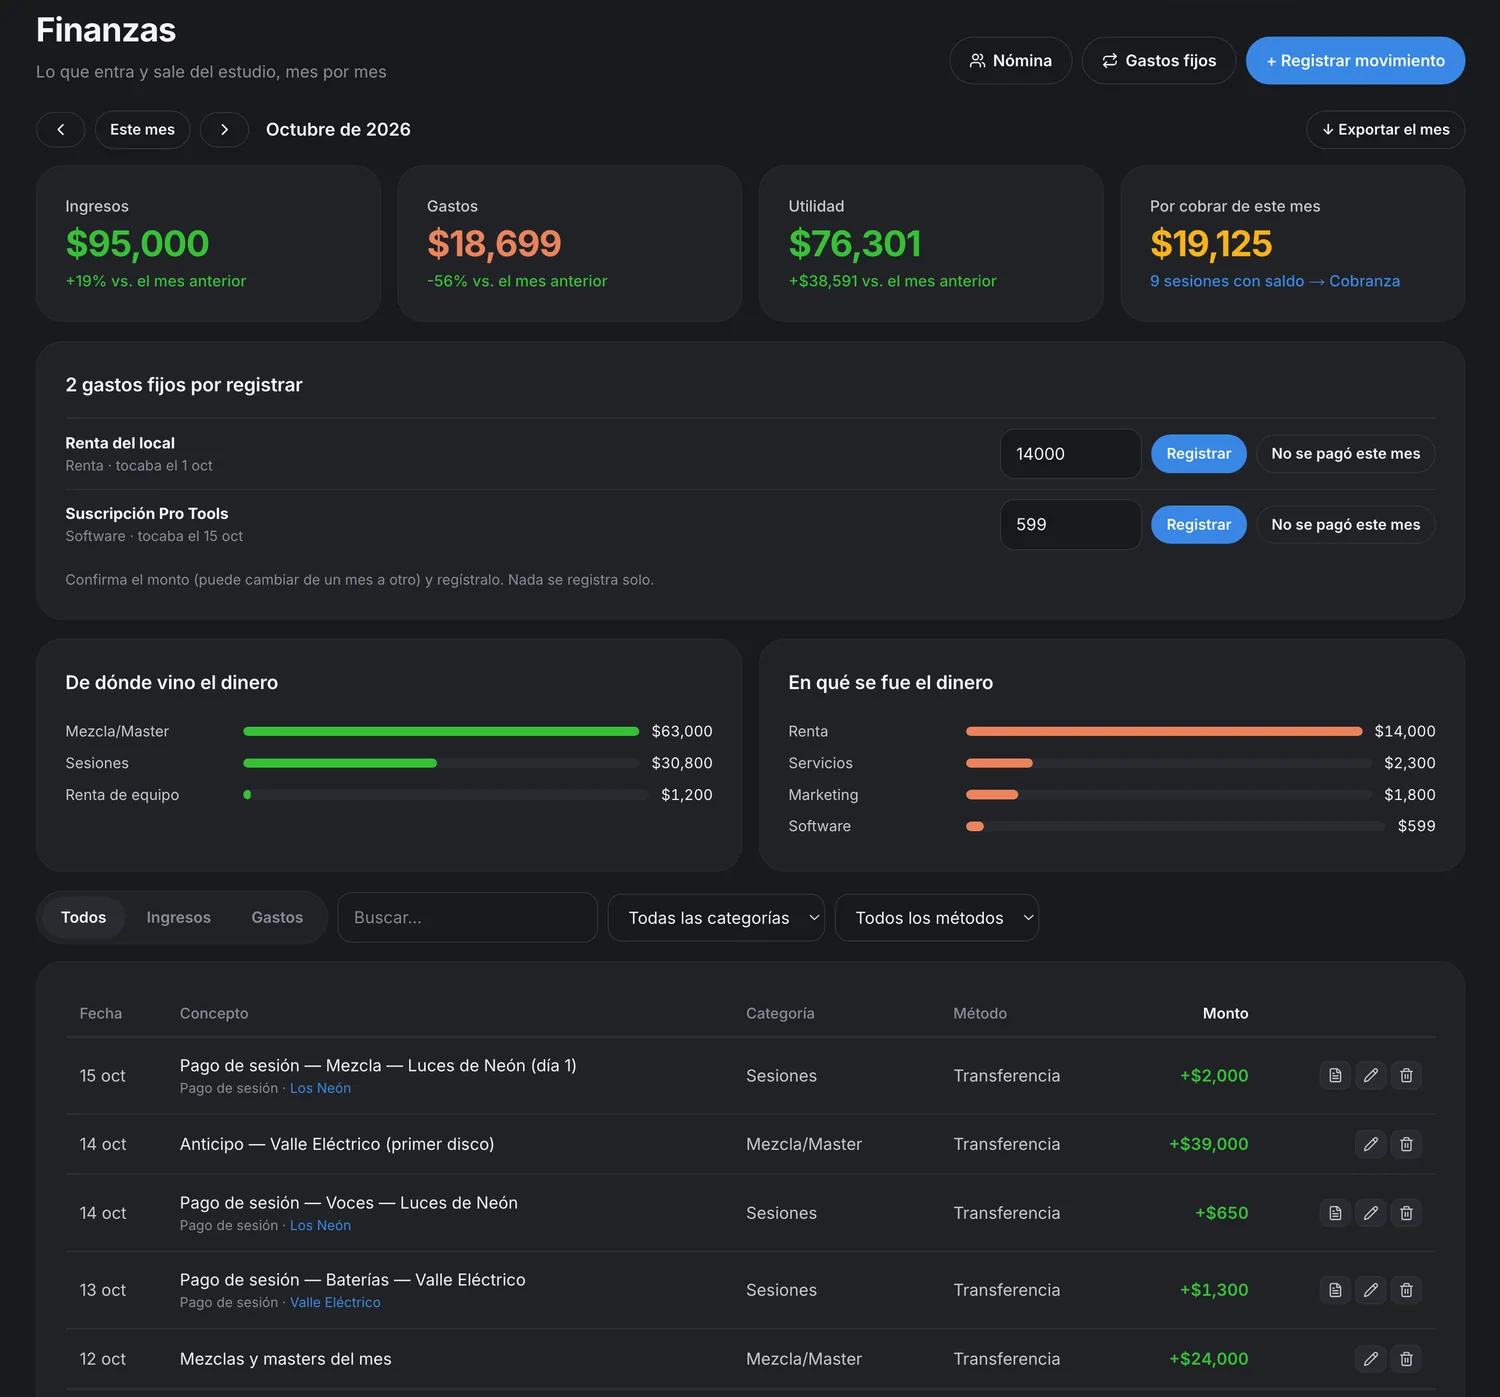
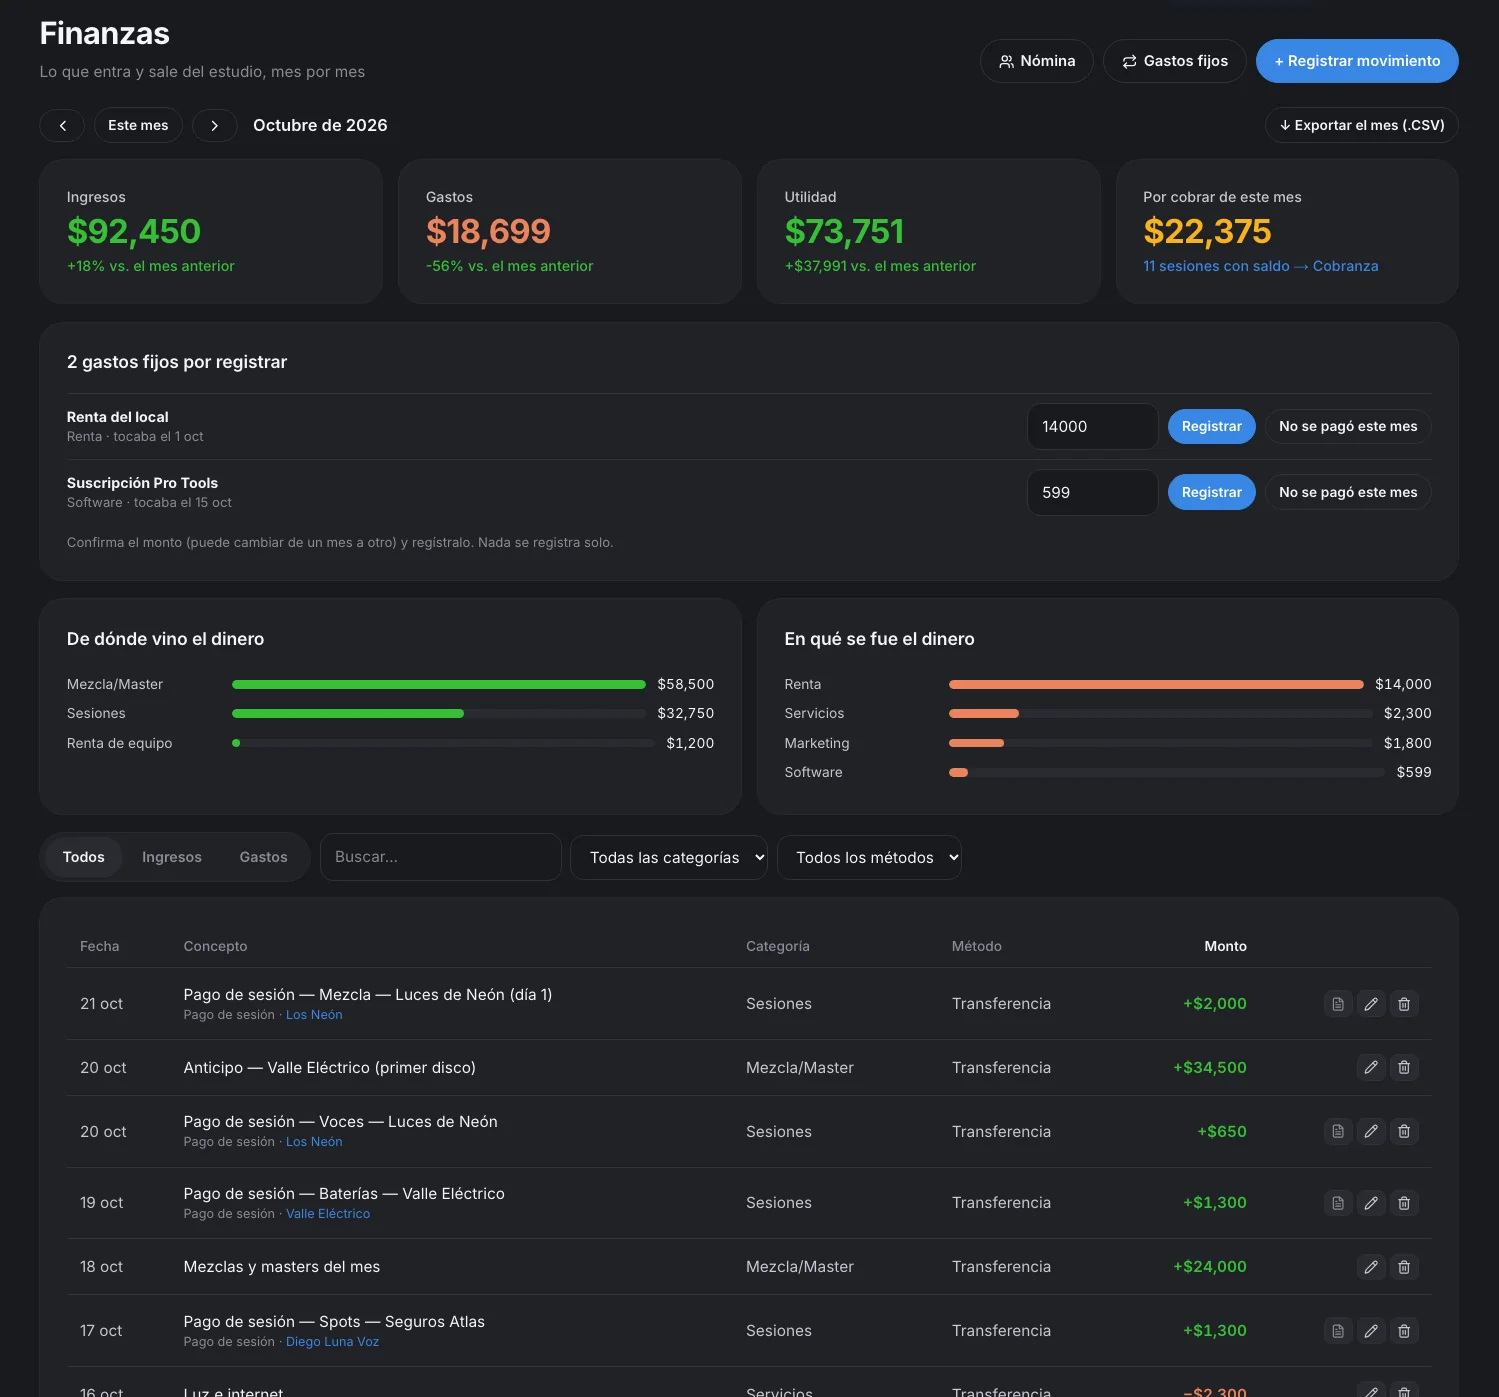
English demo (hero language sync + English screenshots), refreshed Spanish screenshots, iPhone Duo closed mockup

diff --git a/landing.html b/landing.html
@@ -209,7 +209,7 @@ if(c!=='es'){d.classList.add('i18n-pending');setTimeout(function(){d.classList.r
   .card.shade{background:var(--surface-2)}
   @media(max-width:900px){.bento{grid-template-columns:1fr}.c-span4,.c-span3,.c-span2{grid-column:auto}}
 
-  /* Dispositivos: MacBook Pro 14", iPad 13" e iPhone 17 Pro Max mostrando el demo */
+  /* Dispositivos: MacBook Pro 14", iPad Pro 13" e iPhone Duo cerrado mostrando el demo */
   .devices{background:var(--surface);border-top:1px solid var(--line);border-bottom:1px solid var(--line)}
   .devices-stage{position:relative;width:100%;max-width:1000px;margin:72px auto 0;aspect-ratio:16/9.4}
   .device{position:absolute;filter:drop-shadow(0 22px 44px rgba(0,0,0,.5))}
@@ -233,19 +233,26 @@ if(c!=='es'){d.classList.add('i18n-pending');setTimeout(function(){d.classList.r
     border-radius:999px;background:#2b2b30;z-index:2}
   .ipad-frame .shot{aspect-ratio:4/3;border-radius:14px}
 
-  .device-iphone{right:1%;bottom:-4%;width:16%;z-index:3}
-  .iphone-frame{position:relative;background:#0d0d0f;border-radius:34px;padding:8px;
-    box-shadow:inset 0 0 0 1px rgba(255,255,255,.09)}
-  .iphone-island{position:absolute;top:14px;left:50%;transform:translateX(-50%);width:36%;height:8px;
-    background:#050506;border-radius:999px;z-index:2}
-  .iphone-frame .shot{aspect-ratio:9/19;border-radius:26px}
+  .device-duo{right:0;bottom:-3%;width:21%;z-index:3}
+  /* iPhone Duo cerrado: plegable tipo libro, bisagra a la izquierda, esquinas grandes a la derecha y cámara en la pantalla exterior. Dibujado en CSS, sin imágenes de Apple. */
+  .duo{position:relative;display:flex;aspect-ratio:.71;padding:2.4% 2.6% 2.4% 6.5%;
+    border-radius:4% 15% 15% 4%/2.84% 10.65% 10.65% 2.84%;
+    background:linear-gradient(135deg,#dcd4c2 0%,#b9b19f 48%,#d2cab8 100%);
+    box-shadow:inset 0 0 0 1px rgba(255,255,255,.4),inset 0 -2px 6px rgba(0,0,0,.18)}
+  .duo-hinge{position:absolute;left:0;top:0;bottom:0;width:5%;border-radius:4% 0 0 4%/2.84% 0 0 2.84%;
+    background:linear-gradient(90deg,#9a927d,#ebe5d5 42%,#b7af9c 72%,#8e8671);box-shadow:inset -1px 0 0 rgba(0,0,0,.28)}
+  .duo-screen{position:relative;flex:1;min-width:0;overflow:hidden;background:#050506;
+    border-radius:2.2% 12% 12% 2.2%/1.6% 8.6% 8.6% 1.6%;box-shadow:0 0 0 clamp(2px,.9%,4px) #050506}
+  .duo-screen .shot{position:absolute;left:0;right:0;bottom:0;top:7.5%;display:block;width:100%;height:92.5%;object-fit:cover;object-position:top}
+  .duo-cam{position:absolute;top:1.15%;right:7%;width:7%;aspect-ratio:1;border-radius:50%;background:#050506;
+    box-shadow:0 0 0 1px rgba(255,255,255,.1),inset 0 0 0 2px #14151a}
 
   @media(max-width:820px){
     .devices-stage{position:static;aspect-ratio:auto;display:flex;flex-direction:column;align-items:center;gap:40px;margin-top:48px}
     .device{position:static;transform:none;filter:drop-shadow(0 16px 32px rgba(0,0,0,.5))}
     .device-mac{width:100%;max-width:420px}
     .device-ipad{width:100%;max-width:460px}
-    .device-iphone{width:100%;max-width:190px}
+    .device-duo{width:100%;max-width:230px}
   }
 
   /* Antes / después */
@@ -388,9 +395,8 @@ if(c!=='es'){d.classList.add('i18n-pending');setTimeout(function(){d.classList.r
   .res-visual{position:relative;padding-bottom:7%}
   .res-admin{border:1px solid var(--line);border-radius:16px;overflow:hidden;background:var(--surface);width:88%}
   .res-admin img{display:block;width:100%;height:auto}
-  .res-phone{position:absolute;right:0;bottom:0;width:27%;filter:drop-shadow(0 22px 44px rgba(0,0,0,.55))}
-  .res-phone .shot{display:block;width:100%;height:auto;aspect-ratio:9/19;object-fit:cover;object-position:top;border-radius:26px}
-  @media(max-width:900px){.res-grid{grid-template-columns:1fr;gap:40px}.res-visual{padding-bottom:12%}.res-admin{width:90%}.res-phone{width:34%}}
+  .res-phone{position:absolute;right:0;bottom:0;width:31%;filter:drop-shadow(0 22px 44px rgba(0,0,0,.55))}
+  @media(max-width:900px){.res-grid{grid-template-columns:1fr;gap:40px}.res-visual{padding-bottom:12%}.res-admin{width:90%}.res-phone{width:38%}}
 
   /* Más que una agenda */
   .more-group{display:grid;grid-template-columns:.7fr 1.3fr;gap:48px;padding:44px 0;border-top:1px solid var(--line)}
@@ -651,12 +657,11 @@ if(c!=='es'){d.classList.add('i18n-pending');setTimeout(function(){d.classList.r
         </ul>
       </div>
       <div class="res-visual reveal">
-        <div class="res-admin"><img src="demo-reservas.webp" width="1400" height="1083" alt="Página de reservas en línea de FoldBack con el enlace del estudio y las solicitudes por atender, con botones para confirmar, rechazar o escribir por WhatsApp" data-i18n-alt="res.alt1" loading="lazy" /></div>
+        <div class="res-admin"><img src="demo-reservas.webp" data-src-en="demo-reservas-en.webp" width="1399" height="1083" alt="Página de reservas en línea de FoldBack con el enlace del estudio y las solicitudes por atender, con botones para confirmar, rechazar o escribir por WhatsApp" data-i18n-alt="res.alt1" loading="lazy" /></div>
         <div class="res-phone" aria-hidden="false">
-          <div class="iphone-frame">
-            <div class="iphone-island"></div>
-            <img class="shot" src="demo-reservar-movil.webp" width="780" height="1688" alt="Página de reservas del estudio en un celular: el cliente elige servicio, sala, duración e ingeniero" data-i18n-alt="res.alt2" loading="lazy" />
-          </div>
+          <div class="duo"><span class="duo-hinge"></span><div class="duo-screen">
+            <img class="shot" src="demo-reservar-movil.webp" data-src-en="demo-reservar-movil-en.webp" width="960" height="1408" alt="Página de reservas del estudio en un celular: el cliente elige servicio, sala, duración e ingeniero" data-i18n-alt="res.alt2" loading="lazy" /><i class="duo-cam"></i>
+          </div></div>
         </div>
       </div>
     </div>
@@ -756,7 +761,7 @@ if(c!=='es'){d.classList.add('i18n-pending');setTimeout(function(){d.classList.r
           <div class="mac-notch"></div>
           <div class="mac-screen">
             <div class="mac-screen-inner">
-              <img class="shot" src="dashboard-resumen.webp" alt="Panel de FoldBack abierto en un MacBook Pro de 14 pulgadas" data-i18n-alt="dev.mac" loading="lazy" />
+              <img class="shot" src="dashboard-resumen.webp" data-src-en="dashboard-resumen-en.webp" alt="Panel de FoldBack abierto en un MacBook Pro de 14 pulgadas" data-i18n-alt="dev.mac" loading="lazy" />
             </div>
           </div>
           <div class="mac-base"></div>
@@ -764,14 +769,13 @@ if(c!=='es'){d.classList.add('i18n-pending');setTimeout(function(){d.classList.r
         <div class="device device-ipad">
           <div class="ipad-frame">
             <div class="ipad-cam"></div>
-            <img class="shot" src="demo-ipad.webp" alt="Calendario de FoldBack abierto en un iPad de 13 pulgadas" data-i18n-alt="dev.ipad" loading="lazy" />
+            <img class="shot" src="demo-ipad.webp" data-src-en="demo-ipad-en.webp" alt="Calendario de FoldBack abierto en un iPad de 13 pulgadas" data-i18n-alt="dev.ipad" loading="lazy" />
           </div>
         </div>
-        <div class="device device-iphone">
-          <div class="iphone-frame">
-            <div class="iphone-island"></div>
-            <img class="shot" src="demo-movil.webp" alt="Lista de sesiones de FoldBack en su versión móvil, abierta en un iPhone 17 Pro Max" data-i18n-alt="dev.iphone" loading="lazy" />
-          </div>
+        <div class="device device-duo">
+          <div class="duo"><span class="duo-hinge"></span><div class="duo-screen">
+            <img class="shot" src="demo-movil.webp" data-src-en="demo-movil-en.webp" width="960" height="1408" alt="Lista de sesiones de FoldBack en la pantalla exterior de un iPhone Duo cerrado" data-i18n-alt="dev.iphone" loading="lazy" /><i class="duo-cam"></i>
+          </div></div>
         </div>
       </div>
     </div>
@@ -787,35 +791,35 @@ if(c!=='es'){d.classList.add('i18n-pending');setTimeout(function(){d.classList.r
       <div class="tour-wrap">
         <div class="tour" id="tour" tabindex="0" aria-label="Galería de funciones de FoldBack, desliza o usa las flechas" data-i18n-aria-label="tour.label">
           <div class="tour-card">
-            <div class="tour-shot"><img src="demo-sesiones-card.webp" alt="Lista de sesiones en FoldBack con fecha, horario, proyecto, cliente, tipo, sala, total, saldo y estado, y botones para cobrar, editar y cotizar" data-i18n-alt="tour.a1" loading="lazy" /></div>
+            <div class="tour-shot"><img src="demo-sesiones-card.webp" data-src-en="demo-sesiones-card-en.webp" alt="Lista de sesiones en FoldBack con fecha, horario, proyecto, cliente, tipo, sala, total, saldo y estado, y botones para cobrar, editar y cotizar" data-i18n-alt="tour.a1" loading="lazy" /></div>
             <div class="tour-body">
               <h3 data-i18n="feat.sched.h">Agenda y sesiones</h3>
               <p data-i18n="tour.sched.p">Cada sesión con su cliente, sala, total y estado de pago, sin buscar en tres chats distintos.</p>
             </div>
           </div>
           <div class="tour-card">
-            <div class="tour-shot"><img src="demo-calendario-card.webp" alt="Vista semanal del calendario de FoldBack con las sesiones y tareas de cada día, con su sala y cliente" data-i18n-alt="tour.a2" loading="lazy" /></div>
+            <div class="tour-shot"><img src="demo-calendario-card.webp" data-src-en="demo-calendario-card-en.webp" alt="Vista semanal del calendario de FoldBack con las sesiones y tareas de cada día, con su sala y cliente" data-i18n-alt="tour.a2" loading="lazy" /></div>
             <div class="tour-body">
               <h3 data-i18n="tour.cal.h">Calendario semanal</h3>
               <p data-i18n="tour.cal.p">Ve la semana completa, filtra por sala y detecta empalmes antes de que sean un problema.</p>
             </div>
           </div>
           <div class="tour-card">
-            <div class="tour-shot"><img src="demo-clientes-card.webp" alt="Tarjetas de clientes en FoldBack con nombre, tipo, contacto, número de sesiones y saldo pendiente" data-i18n-alt="tour.a3" loading="lazy" /></div>
+            <div class="tour-shot"><img src="demo-clientes-card.webp" data-src-en="demo-clientes-card-en.webp" alt="Tarjetas de clientes en FoldBack con nombre, tipo, contacto, número de sesiones y saldo pendiente" data-i18n-alt="tour.a3" loading="lazy" /></div>
             <div class="tour-body">
               <h3 data-i18n="tour.cli.h">Clientes</h3>
               <p data-i18n="tour.cli.p">Artistas, bandas y podcasts con su contacto, sus sesiones y lo que te deben, a la mano.</p>
             </div>
           </div>
           <div class="tour-card">
-            <div class="tour-shot"><img src="demo-finanzas-card.webp" alt="Finanzas del mes en FoldBack con ingresos, gastos, utilidad, por cobrar, gastos fijos por registrar, categorías y movimientos" data-i18n-alt="tour.a4" loading="lazy" /></div>
+            <div class="tour-shot"><img src="demo-finanzas-card.webp" data-src-en="demo-finanzas-card-en.webp" alt="Finanzas del mes en FoldBack con ingresos, gastos, utilidad, por cobrar, gastos fijos por registrar, categorías y movimientos" data-i18n-alt="tour.a4" loading="lazy" /></div>
             <div class="tour-body">
               <h3 data-i18n="tour.fin.h">Finanzas</h3>
               <p data-i18n="tour.fin.p">Cada ingreso y gasto con fecha, categoría y método, con la utilidad real del mes, no la que adivinas.</p>
             </div>
           </div>
           <div class="tour-card">
-            <div class="tour-shot"><img src="demo-cobranza-card.webp" alt="Panel de cobranza en FoldBack con saldos vencidos por cliente, botones de WhatsApp y correo, y las sesiones por cobrar más adelante" data-i18n-alt="tour.a5" loading="lazy" /></div>
+            <div class="tour-shot"><img src="demo-cobranza-card.webp" data-src-en="demo-cobranza-card-en.webp" alt="Panel de cobranza en FoldBack con saldos vencidos por cliente, botones de WhatsApp y correo, y las sesiones por cobrar más adelante" data-i18n-alt="tour.a5" loading="lazy" /></div>
             <div class="tour-body">
               <h3 data-i18n="feat.coll.h">Cobranza sin perseguir</h3>
               <p data-i18n="tour.coll.p">Los saldos pendientes listos con un botón para WhatsApp o correo, con el mensaje ya escrito.</p>
@@ -1002,6 +1006,7 @@ if(c!=='es'){d.classList.add('i18n-pending');setTimeout(function(){d.classList.r
       renderSlogan();
       renderDotLabels();
       renderPrices();
+      renderImages();
       enlazarCompra();
       document.querySelectorAll('.lang-code').forEach(c => { c.textContent = currentLang.toUpperCase(); });
       document.querySelectorAll('.lang-menu button').forEach(b => b.setAttribute('aria-selected', String(b.dataset.code === currentLang)));
@@ -1026,6 +1031,23 @@ if(c!=='es'){d.classList.add('i18n-pending');setTimeout(function(){d.classList.r
           if (b && pl.comprar) b.href = pl.comprar;
         }))
         .catch(() => {});
+    }
+
+    // Imágenes del demo por idioma: el HTML trae las de español; con data-src-en se cambian al inglés.
+    function renderImages() {
+      document.querySelectorAll('img[data-src-en]').forEach(img => {
+        if (!img.dataset.srcEs) img.dataset.srcEs = img.getAttribute('src');
+        const want = currentLang === 'es' ? img.dataset.srcEs : img.dataset.srcEn;
+        if (img.getAttribute('src') !== want) img.setAttribute('src', want);
+      });
+    }
+    // Idioma del demo incrustado. El demo sigue la cookie fb-idioma y, si no hay, el idioma del navegador.
+    // Solo cuando la persona elige idioma aquí se guarda esa preferencia para todo foldback.io y se recarga el demo.
+    function sincronizarDemo() {
+      const idioma = currentLang === 'es' ? 'es' : 'en';
+      try { document.cookie = 'fb-idioma=' + idioma + '; domain=.foldback.io; path=/; max-age=31536000; SameSite=Lax; Secure'; } catch (e) {}
+      const f = document.querySelector('.float-view iframe');
+      if (f && f.src) { const u = f.src; f.src = 'about:blank'; setTimeout(() => { f.src = u; }, 60); }
     }
 
     function renderPrices() {
@@ -1063,6 +1085,7 @@ if(c!=='es'){d.classList.add('i18n-pending');setTimeout(function(){d.classList.r
         currentLang = code;
         if (persist) { try { localStorage.setItem('fb-lang', code); } catch (e) {} }
         applyDict();
+        if (persist) sincronizarDemo();
       } catch (e) { /* sin traducciones disponibles: se queda el español del HTML */ }
       document.documentElement.classList.remove('i18n-pending');
     }

diff --git a/NOTES.md b/NOTES.md
@@ -33,3 +33,7 @@
 - Funciones nuevas (2026-10-19): la landing tiene la sección "Más que una agenda" (`#mas`, claves `more.*`) con portal del cliente, paquetes de horas, regalo por lealtad, encuesta con reseña en Google, prospectos, lista de espera, roles y permisos, "Solo mías", reporte por ingeniero, varios estudios, avisos en el celular, tarifas por sala/horario/ingeniero, sesiones recurrentes, bloqueos y margen, reservas de varios días, equipo en renta, consumibles y daños, calendario por suscripción, formulario previo y recordatorios. Todo salió de los textos de la app (`messages/es.json`) y de sus commits; antes de afirmar algo nuevo, verificarlo ahí. No se promete un número de usuarios por plan porque no está definido.
 - Funciones de 2026-10-20 en la landing: varias sedes, roles Recepción y Contador, comentarios sobre un tramo de la onda, estado de cuenta por correo, audios privados con enlaces que caducan (fuente: `src/lib/novedades.ts` de la app).
 - Compra con Stripe (encendida 2026-10-20, Stripe en modo real): los botones "Suscribirme" de cada plan (`data-plan="mes|anio"`) llevan al Checkout de la app (`https://app.foldback.io/api/suscripcion/checkout?plan=fundador|fundador-anual&idioma=es|en`, ya en el HTML y con `rel="nofollow"` porque cada visita a ese enlace crea una sesión de Stripe). `enlazarCompra()` en `landing.html` ajusta el idioma y usa el `comprar` de `GET https://app.foldback.io/api/precios` (CORS solo para foldback.io), que sigue los planes de Admin → Precios. Si se cambian los ids de plan allí, la página se actualiza sola; si el API falla, quedan los enlaces del HTML. El Checkout ofrece 14 días de prueba (solo estudios nuevos, con tarjeta) y la página lo anuncia (2026-10-20): botones "Probar 14 días gratis", nota bajo las tarjetas, pregunta frecuente y cierre. "Precio final, impuestos incluidos" sale de que los precios en Stripe se crean con `tax_behavior: inclusive` (`src/lib/suscripcion.ts`); confirmar con el contador que es cierto para el negocio (IVA, facturas). Falta el recordatorio antes del primer cobro.
+- Demo en inglés (2026-10-21): cada imagen del demo tiene versión en inglés (`*-en.webp`) y la página cambia el `src` según el idioma (`data-src-en`, `renderImages()` en `landing.html`). Las capturas salen del demo con la cookie `fb-idioma=en` (UI en inglés; los datos de muestra, como "Sala A" o "Grabación", siguen en español porque son datos del demo). Para rehacerlas: abrir demo.foldback.io con esa cookie y recortar `main.main` desde el título de cada página a 1772 px de ancho (tarjetas, 1500 px útiles), Mac a 1400x900 a 2x, iPad a 1366x1024 a 1.3177x, teléfono a 480x704 a 2x sin el aviso del demo.
+- Idioma del demo incrustado: solo cuando la persona elige idioma en la landing se guarda la cookie `fb-idioma` en `.foldback.io` y se recarga el iframe (`sincronizarDemo()`); mientras no elija, el demo sigue el idioma del navegador. Si alguien cambia el idioma dentro del demo, su cookie propia del demo puede chocar con esa; lo ideal es que la app acepte `?idioma=` al entrar al demo.
+- Mockup de teléfono: iPhone Duo cerrado dibujado en CSS (`.duo`, `.duo-hinge`, `.duo-screen`, `.duo-cam`), proporción 0.71 con bisagra a la izquierda, tomado de la foto de prensa de Apple solo como referencia visual (sin usar sus imágenes). Las capturas de teléfono son de 480x704 css (960x1408).
+
